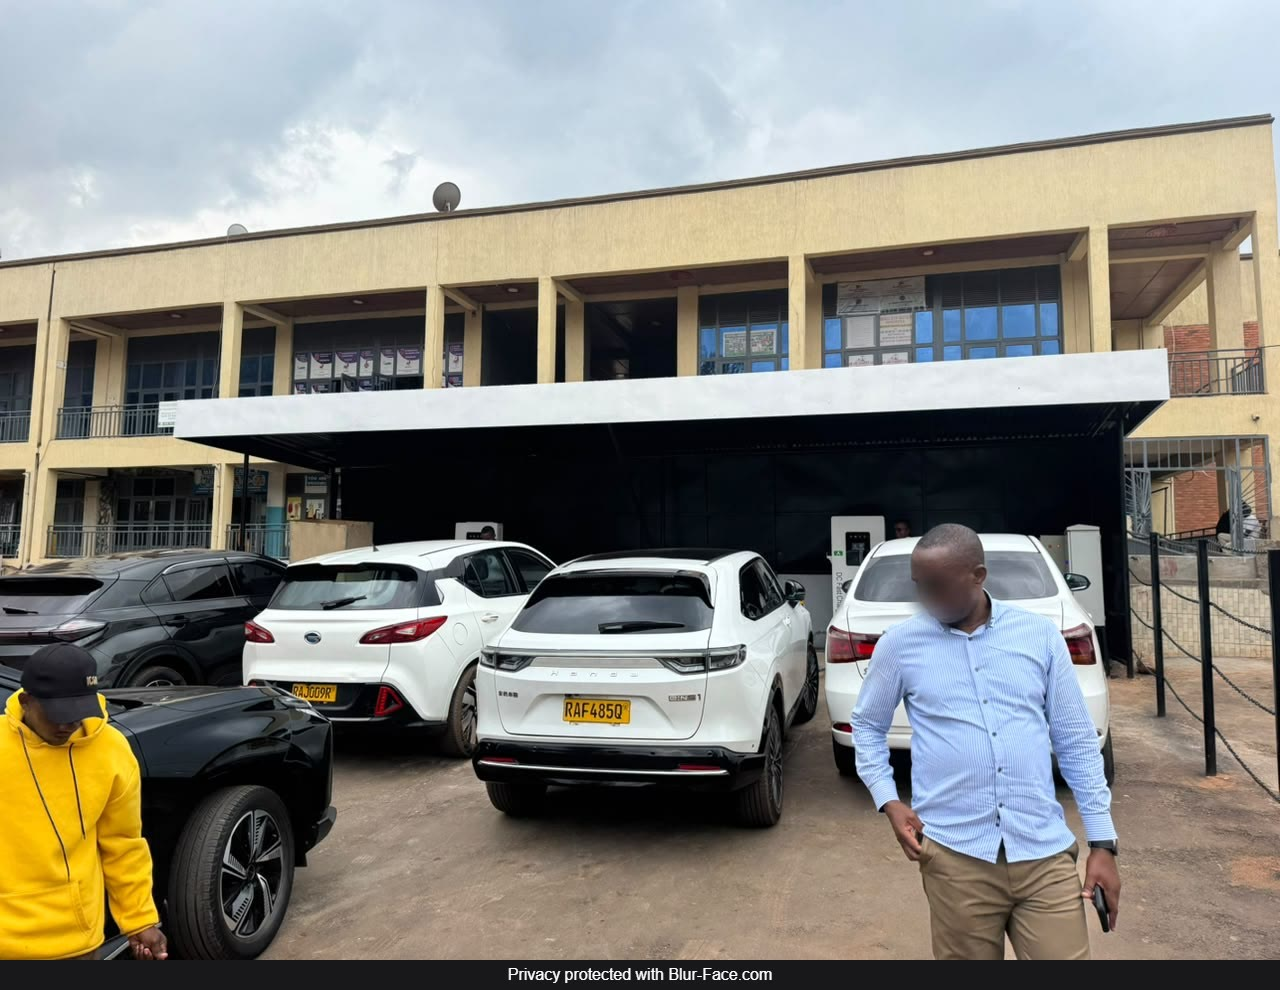
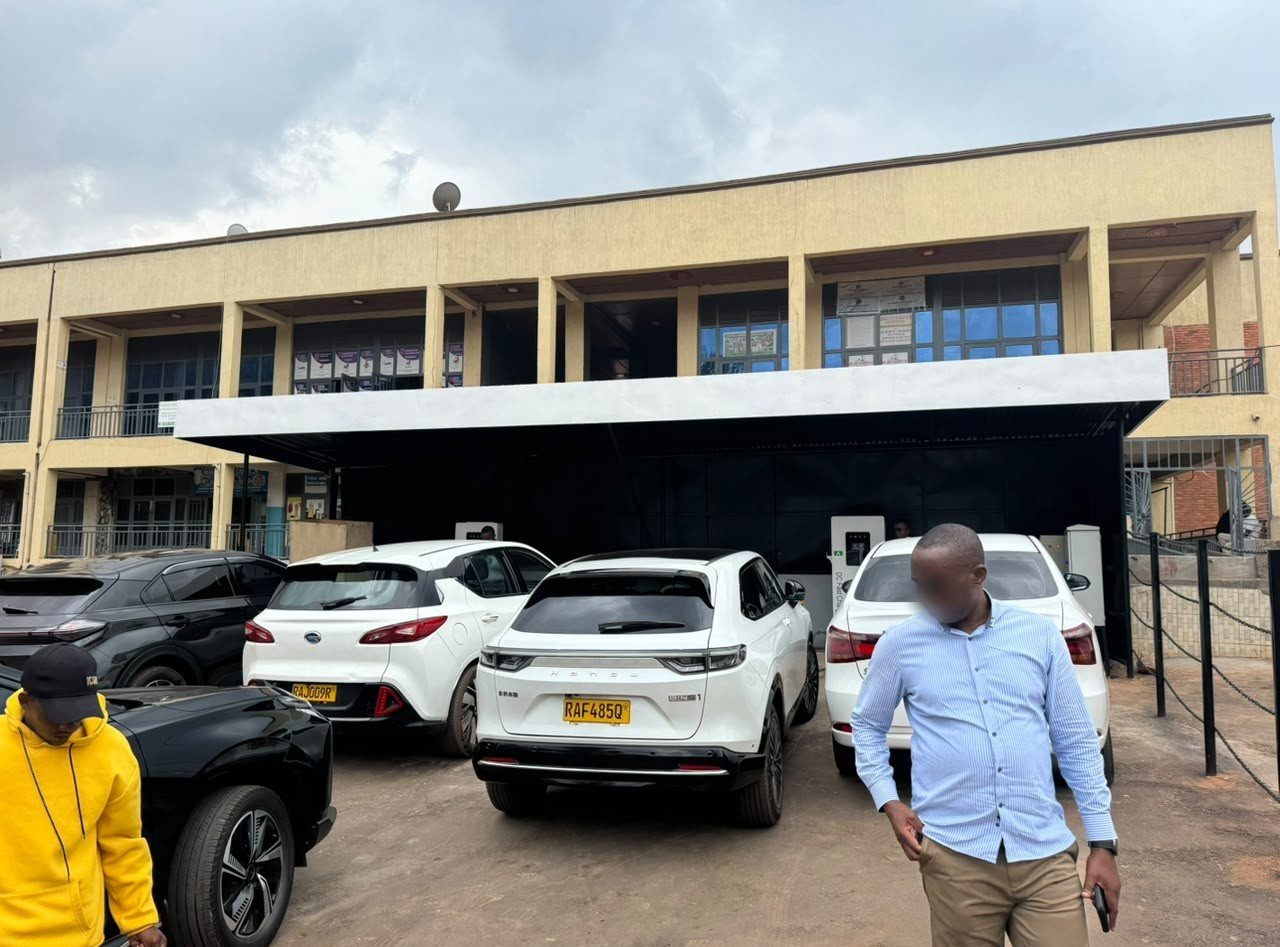
Project Updates: single uploaded photo for Inkundamahoro card
Drop the three cabinet/wiring/controller photos and replace the fourth with
the uploaded site photo. Single-photo cards now support landscape images via
a wider photo column.

diff --git a/src/components/SiteOperationsSection.tsx b/src/components/SiteOperationsSection.tsx
@@ -13,9 +13,6 @@ import masakaPole from "@/assets/site-masaka-pole.jpg";
 import masakaCrane from "@/assets/site-masaka-crane.jpg";
 import masakaHardware from "@/assets/site-masaka-hardware.jpg";
 import alphatntFieldVisit from "@/assets/site-alphatnt-field-visit.jpg";
-import inkundamahoroCabinet from "@/assets/site-inkundamahoro-cabinet.jpg";
-import inkundamahoroWiring from "@/assets/site-inkundamahoro-wiring.jpg";
-import inkundamahoroController from "@/assets/site-inkundamahoro-controller.jpg";
 import inkundamahoroStation from "@/assets/site-inkundamahoro-station.jpg";
 
 type SiteOperation = {
@@ -24,6 +21,8 @@ type SiteOperation = {
   desc: string;
   period?: string;
   photos: { src: string; alt: string }[];
+  /** set when the single photo is landscape, so it gets a wider column */
+  wide?: boolean;
 };
 
 const operations: SiteOperation[] = [
@@ -116,22 +115,11 @@ const operations: SiteOperation[] = [
     caption: "Supply and Installation of EV Charging Infrastructure",
     desc: "In collaboration with Eco-Chargelink Ltd, African Energy Hub Ltd completed the installation of electric vehicle (EV) charging infrastructure at the Inkundamahoro site. The project involved the supply and installation of a 400 kVA transformer and two 120 kW EV charging stations. This initiative supports the expansion of Rwanda's EV charging network and reinforces our commitment to accelerating sustainable electric mobility across the country.",
     period: "October 2026",
+    wide: true,
     photos: [
       {
-        src: inkundamahoroCabinet,
-        alt: "African Energy Hub Ltd technicians wiring the EV charger cabinet and power distribution board at the Inkundamahoro site",
-      },
-      {
-        src: inkundamahoroWiring,
-        alt: "Inside an EV fast charger control cabinet being terminated by AEH technicians at Inkundamahoro",
-      },
-      {
-        src: inkundamahoroController,
-        alt: "AEH technician installing the DC charger controller and protection devices inside the Inkundamahoro EV charger",
-      },
-      {
         src: inkundamahoroStation,
-        alt: "Completed EV charging station with DC fast chargers under a canopy at the Inkundamahoro site",
+        alt: "Completed EV charging station at the Inkundamahoro site with DC fast chargers under a canopy and electric vehicles charging",
       },
     ],
   },
@@ -185,6 +173,32 @@ const PhotoStrip = ({ op }: { op: SiteOperation }) => (
   </div>
 );
 
+const SinglePhoto = ({ op }: { op: SiteOperation }) => (
+  <div
+    className={`sm:grid sm:items-stretch ${
+      op.wide
+        ? "sm:grid-cols-[minmax(0,420px)_1fr]"
+        : "sm:grid-cols-[minmax(0,340px)_1fr]"
+    }`}
+  >
+    <div className="flex overflow-x-auto bg-muted/40 p-3 sm:p-0">
+      <div
+        className={`relative mx-auto overflow-hidden rounded-lg sm:mx-0 sm:h-full sm:w-full sm:min-h-[260px] sm:rounded-none ${
+          op.wide ? "aspect-[4/3] w-full" : "aspect-[3/4] w-[62%]"
+        }`}
+      >
+        <img
+          src={op.photos[0].src}
+          alt={op.photos[0].alt}
+          loading="lazy"
+          className="absolute inset-0 h-full w-full object-cover object-center transition-transform duration-700 ease-out hover:scale-105"
+        />
+      </div>
+    </div>
+    <Details op={op} />
+  </div>
+);
+
 const SiteOperationsSection = () => (
   <section id="operations" className="py-24 bg-background scroll-mt-24">
     <div className="container">
@@ -208,19 +222,7 @@ const SiteOperationsSection = () => (
             className="overflow-hidden rounded-2xl border border-border bg-card shadow-card hover:shadow-elevated transition-shadow duration-300"
           >
             {op.photos.length === 1 ? (
-              <div className="sm:grid sm:grid-cols-[minmax(0,340px)_1fr] sm:items-stretch">
-                <div className="flex overflow-x-auto bg-muted/40 p-3 sm:p-0">
-                  <div className="mx-auto w-[62%] overflow-hidden rounded-lg sm:relative sm:mx-0 sm:h-full sm:w-full sm:min-h-[260px] sm:rounded-none">
-                    <img
-                      src={op.photos[0].src}
-                      alt={op.photos[0].alt}
-                      loading="lazy"
-                      className="aspect-[3/4] w-full object-cover object-center transition-transform duration-700 ease-out hover:scale-105 sm:absolute sm:inset-0 sm:aspect-auto sm:h-full sm:w-full"
-                    />
-                  </div>
-                </div>
-                <Details op={op} />
-              </div>
+              <SinglePhoto op={op} />
             ) : (
               <>
                 <PhotoStrip op={op} />
